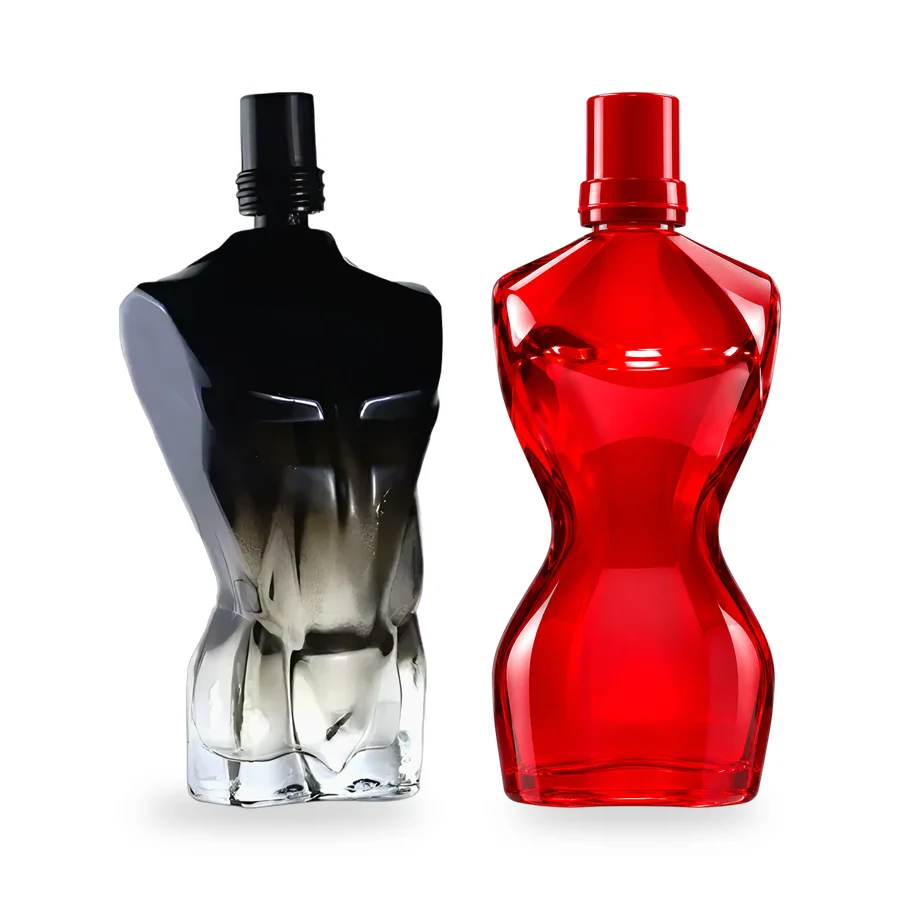
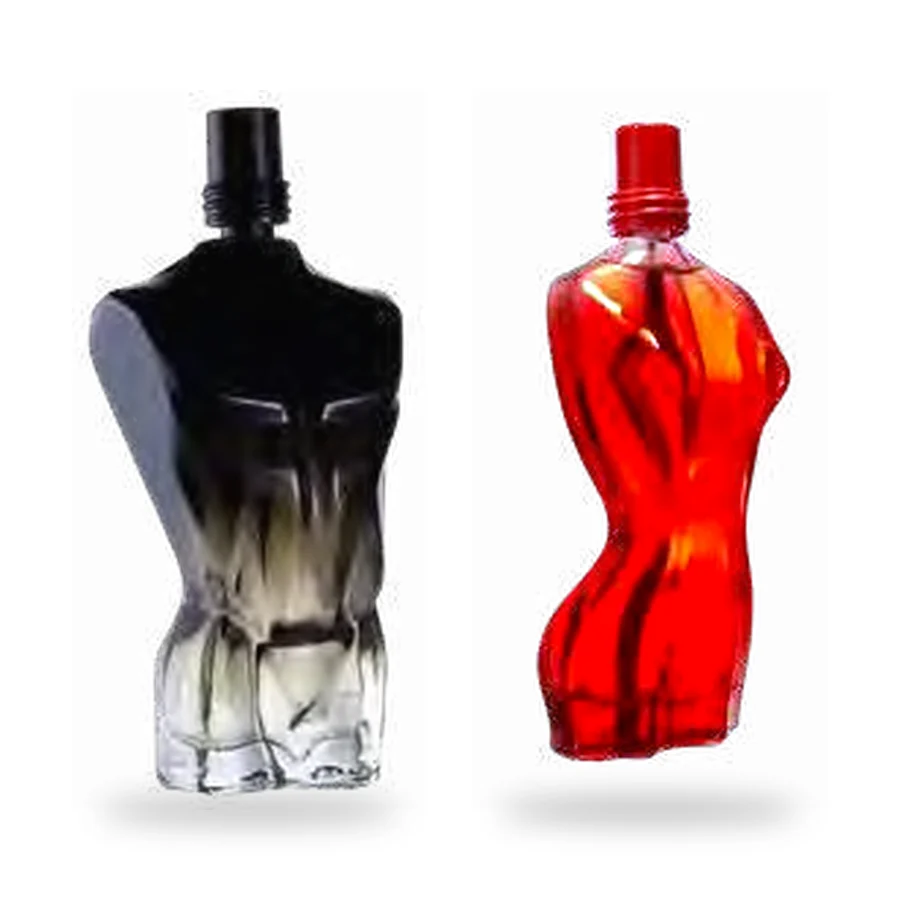
Envases originales del catálogo en los perfumes de 120, 60 y 30 ml
- 120 ml: Torso Man (negro, teal) y Torso Woman (rojo, turquesa).
- 60 ml: Perseo (turquesa, índigo, azul 212, verde oscuro) y Liliana (rosa, transcendent pink, lila, melón).
- 30 ml: For Men (cristalino turquesa, humo azul, esmeralda) y Liliana (melón, rosa, transcendent pink).
- Misma exposición y fondo; no se repiten en la lista de envases.

Claude-Session: https://claude.ai/code/session_012qYuFbJU3Mvk7NheT4Znu1

diff --git a/productos.js b/productos.js
@@ -8,9 +8,9 @@
 // foto: pon el nombre del archivo que subas a tienda/fotos/ (ej. foto: 'perfume-60.jpg'); sin foto se ve el dibujo.
 // tags: popular (más pedidos), regalo (para regalo), pura (pura esencia).
 window.PRODUCTOS = [
-  {id:'nuevo-120',cat:'nuevo',nombre:'Perfume 120 ml',detalle:'Frasco nuevo',ilus:'frasco-grande',ml:'120',tags:['regalo'],precios:{linea:375,neeche:475,arabe:435},img:'img/botellas/120.webp',var:[{n:'Caballero · negro',img:'img/botellas/120-caballero-negro.webp'},{n:'Dama · rojo',img:'img/botellas/120-dama-rojo.webp'}]},
-  {id:'nuevo-60',cat:'nuevo',nombre:'Perfume 60 ml',detalle:'Frasco nuevo',ilus:'frasco',ml:'60',tags:['popular'],precios:{linea:212,neeche:262,arabe:242},img:'img/botellas/60.webp',var:[{n:'Caballero · negro',img:'img/botellas/60-caballero-negra.webp'},{n:'Caballero · turquesa',img:'img/botellas/60-caballero-turquesa.webp'},{n:'Dama · nude',img:'img/botellas/60-dama-nude.webp'},{n:'Dama · rosa',img:'img/botellas/60-dama-rosa.webp'},{n:'Dama · morado',img:'img/botellas/60-dama-morada.webp'}]},
-  {id:'nuevo-30',cat:'nuevo',nombre:'Perfume 30 ml',detalle:'Frasco nuevo',ilus:'frasco',ml:'30',tags:['popular'],precios:{linea:127,neeche:152,arabe:142},img:'img/botellas/30.webp',var:[{n:'Caballero · turquesa',img:'img/botellas/30-caballero-turquesa.webp'},{n:'Caballero · verde',img:'img/botellas/30-caballero-verde.webp'},{n:'Dama · naranja',img:'img/botellas/30-dama-naranja.webp'},{n:'Dama · nude',img:'img/botellas/30-dama-nude.webp'}]},
+  {id:'nuevo-120',cat:'nuevo',nombre:'Perfume 120 ml',detalle:'Frasco nuevo',ilus:'frasco-grande',ml:'120',tags:['regalo'],precios:{linea:375,neeche:475,arabe:435},img:'img/botellas/120.webp',var:[{n:'Caballero · Torso Man negro',img:'img/botellas/120-caballero-torso-man-negro.webp'},{n:'Caballero · Torso Man teal',img:'img/botellas/120-caballero-torso-man-teal.webp'},{n:'Dama · Torso Woman rojo',img:'img/botellas/120-dama-torso-woman-rojo.webp'},{n:'Dama · Torso Woman turquesa',img:'img/botellas/120-dama-torso-woman-turquesa.webp'}]},
+  {id:'nuevo-60',cat:'nuevo',nombre:'Perfume 60 ml',detalle:'Frasco nuevo',ilus:'frasco',ml:'60',tags:['popular'],precios:{linea:212,neeche:262,arabe:242},img:'img/botellas/60.webp',var:[{n:'Caballero · Perseo turquesa',img:'img/botellas/60-caballero-perseo-turquesa.webp'},{n:'Caballero · Perseo índigo',img:'img/botellas/60-caballero-perseo-indigo.webp'},{n:'Caballero · Perseo azul 212',img:'img/botellas/60-caballero-perseo-azul-212.webp'},{n:'Caballero · Perseo verde oscuro',img:'img/botellas/60-caballero-perseo-verde-oscuro.webp'},{n:'Dama · Liliana rosa',img:'img/botellas/60-dama-liliana-rosa.webp'},{n:'Dama · Liliana transcendent pink',img:'img/botellas/60-dama-liliana-transcendent-pink.webp'},{n:'Dama · Liliana lila',img:'img/botellas/60-dama-liliana-lila.webp'},{n:'Dama · Liliana melón',img:'img/botellas/60-dama-liliana-melon.webp'}]},
+  {id:'nuevo-30',cat:'nuevo',nombre:'Perfume 30 ml',detalle:'Frasco nuevo',ilus:'frasco',ml:'30',tags:['popular'],precios:{linea:127,neeche:152,arabe:142},img:'img/botellas/30.webp',var:[{n:'Caballero · For Men cristalino turquesa',img:'img/botellas/30-caballero-for-men-turquesa.webp'},{n:'Caballero · For Men humo azul',img:'img/botellas/30-caballero-for-men-humo-azul.webp'},{n:'Caballero · For Men esmeralda',img:'img/botellas/30-caballero-for-men-esmeralda.webp'},{n:'Dama · Liliana melón',img:'img/botellas/30-dama-liliana-melon.webp'},{n:'Dama · Liliana rosa',img:'img/botellas/30-dama-liliana-rosa.webp'},{n:'Dama · Liliana transcendent pink',img:'img/botellas/30-dama-liliana-transcendent-pink.webp'}]},
   {id:'nuevo-16',cat:'nuevo',nombre:'Perfume 16 ml',detalle:'Frasco nuevo',ilus:'frasco-chico',ml:'16',tags:['popular'],precios:{linea:73,neeche:85,arabe:80},img:'img/botellas/16-unisex.webp',var:[{n:'Dama y caballero',img:'img/botellas/16-unisex.webp'}]},
   {id:'kit-for-you',cat:'nuevo',nombre:'Kit For You',detalle:'Kit de regalo',ilus:'kit',tags:['regalo'],precios:{linea:402,neeche:512,arabe:468}},
   {id:'set-destilados',cat:'nuevo',nombre:'Set destilados',detalle:'Set de regalo',ilus:'set',tags:['regalo'],precios:{linea:507,neeche:634,arabe:583}},

diff --git a/tienda.js b/tienda.js
@@ -324,13 +324,15 @@ function generoFrasco(p, v) {
   if (p.id === 'nicola-porcella' || CABALLERO.includes(p.id)) return 'Caballero';
   return 'Ambos';
 }
+// estos envases ya son los frascos principales de cada tamaño (no se repiten)
+const YA = ['perseo', 'liliana', 'for-men', 'torso-woman-man'];
 // todos los frascos de un tamaño: primero tus botellas y después los envases del catálogo
 function frascosDe(ml) {
   const out = [];
   const nuevo = byId['nuevo-' + ml];
   (nuevo && nuevo.var || []).forEach((v, i) => out.push({ id: nuevo.id, v: i, n: v.n, img: v.img, g: generoFrasco(nuevo, v), propio: true }));
   for (const p of P) {
-    if (p.cat !== 'envases') continue;
+    if (p.cat !== 'envases' || YA.includes(p.id)) continue;
     if (p.var) p.var.forEach((v, i) => { if (String(v.ml || p.envase) === ml && !p.prox)
       out.push({ id: p.id, v: i, n: `${p.nombre.replace(/ · .*$/, '')} · ${v.n.replace(/\s*\d+ ml$/, '').replace(/ · .*$/, '')}`, img: v.img || p.img, g: generoFrasco(p, v) }); });
     else if (String(p.envase) === ml && !p.prox) out.push({ id: p.id, v: -1, n: p.nombre, img: p.img, g: generoFrasco(p) });

diff --git a/herramientas/botellas/env3.py b/herramientas/botellas/env3.py
@@ -1,0 +1,17 @@
+import sys, pickle, shutil, os; sys.path.insert(0, '/tmp/claude-0/bot')
+from uniforma import lienzo
+from PIL import Image
+B = {k: Image.frombytes(*v) for k, v in pickle.load(open('env2/b.pkl', 'rb')).items()}
+R = '/home/user/p-gina-web-fraiche-/img/botellas/'
+N = {'120-caballero-torso-man-negro':'torso-man-negro','120-caballero-torso-man-teal':'torso-man-teal','120-dama-torso-woman-rojo':'torso-woman-rojo','120-dama-torso-woman-turquesa':'torso-woman-turquesa',
+ '60-caballero-perseo-turquesa':'perseo-turquesa','60-caballero-perseo-indigo':'perseo-indigo','60-caballero-perseo-azul-212':'perseo-azul-212','60-caballero-perseo-verde-oscuro':'perseo-verde-oscuro',
+ '60-dama-liliana-melon':'liliana60-melon','60-dama-liliana-rosa':'liliana60-pink','60-dama-liliana-lila':'liliana60-lila','60-dama-liliana-transcendent-pink':'liliana60-rosa',
+ '30-caballero-for-men-turquesa':'formen-1036','30-caballero-for-men-humo-azul':'formen-1038','30-caballero-for-men-esmeralda':'formen-1040',
+ '30-dama-liliana-melon':'liliana30-melon','30-dama-liliana-rosa':'liliana30-pink','30-dama-liliana-transcendent-pink':'liliana30-rosa'}
+for dst, src in N.items(): shutil.copy(f'env2/{src}.webp', R + dst + '.webp')
+for n, ks in [('120', ['torso-man-negro', 'torso-woman-rojo']), ('60', ['perseo-turquesa', 'liliana60-rosa']), ('30', ['formen-1036', 'liliana30-melon'])]:
+    lienzo([B[k] for k in ks], S=900).save(R + n + '.webp', 'WEBP', quality=86)
+for f in os.listdir(R):
+    if f.startswith(('120-caballero-negro', '120-dama-rojo', '60-caballero-negra', '60-caballero-turquesa', '60-dama-nude', '60-dama-rosa.', '60-dama-morada', '30-caballero-turquesa', '30-caballero-verde', '30-dama-naranja', '30-dama-nude', 'comparar')):
+        os.remove(R + f)
+print(sorted(os.listdir(R)))

diff --git a/herramientas/botellas/env2.py b/herramientas/botellas/env2.py
@@ -1,0 +1,14 @@
+import sys; sys.path.insert(0, '/tmp/claude-0/bot')
+from uniforma import normaliza, lienzo
+from PIL import Image
+C = '/tmp/claude-0/-home-user-p-gina-web-fraiche-/5363f9e1-b5bf-55ca-a891-f4d6b6b8027f/scratchpad/catalogo/cut/'
+M = {'torso-man-negro':'276-0983','torso-man-teal':'276-1009','torso-woman-rojo':'273-0871','torso-woman-turquesa':'273-0897',
+ 'perseo-turquesa':'273-0855','perseo-indigo':'273-0883','perseo-azul-212':'276-0985','perseo-verde-oscuro':'276-0987',
+ 'liliana60-melon':'273-0847','liliana60-rosa':'273-0863','liliana60-lila':'273-0861','liliana60-pink':'273-0849',
+ 'formen-1036':'277-1036','formen-1038':'277-1038','formen-1040':'277-1040',
+ 'liliana30-melon':'273-0857','liliana30-rosa':'273-0895','liliana30-pink':'273-0851'}
+B = {}
+for n, k in M.items():
+    im = Image.open(C + k + '.png').convert('RGBA'); B[n] = normaliza(im.crop(im.getbbox()))
+    lienzo([B[n]], S=700).save(f'env2/{n}.webp', 'WEBP', quality=88)
+import pickle; pickle.dump({k: (v.mode, v.size, v.tobytes()) for k, v in B.items()}, open('env2/b.pkl', 'wb'))
